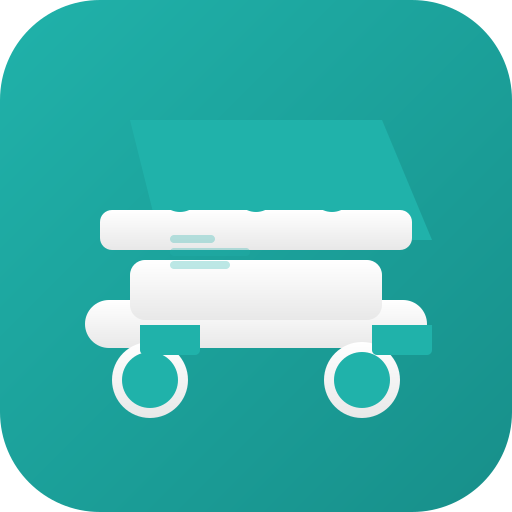
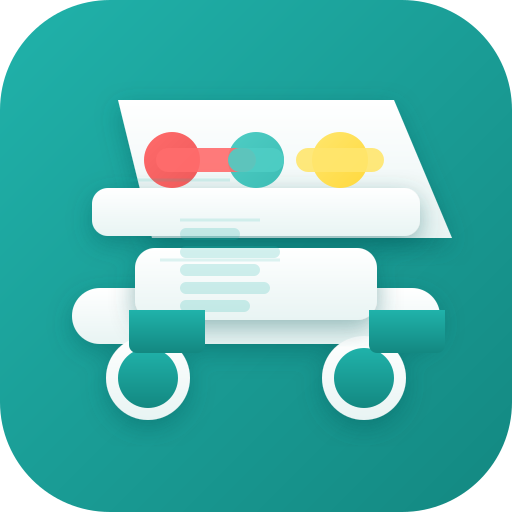
feat: redesign ícones PWA e OG image para preview
- Ícone PWA profissional com gradiente e itens coloridos
- OG image redesenhada com layout mais elegante
- URLs absolutas para og:image (1200x630 PNG)
- Meta tags twitter:image com width/height
- Ícone com fundo preenchido sem bordas brancas

diff --git a/index.html b/index.html
@@ -17,7 +17,8 @@
     <meta property="og:type" content="website" />
     <meta property="og:title" content="SuperLista - Lista de Compras" />
     <meta property="og:description" content="Sua lista de compras inteligente e prática" />
-    <meta property="og:image" content="/og-image.png" />
+    <meta property="og:image" content="https://superlista.app/og-image.png" />
+    <meta property="og:image:type" content="image/png" />
     <meta property="og:image:alt" content="SuperLista - Lista de Compras" />
     <meta property="og:image:width" content="1200" />
     <meta property="og:image:height" content="630" />
@@ -27,8 +28,10 @@
     <meta name="twitter:card" content="summary_large_image" />
     <meta name="twitter:title" content="SuperLista - Lista de Compras" />
     <meta name="twitter:description" content="Sua lista de compras inteligente e prática" />
-    <meta name="twitter:image" content="/og-image.png" />
+    <meta name="twitter:image" content="https://superlista.app/og-image.png" />
     <meta name="twitter:image:alt" content="SuperLista - Lista de Compras" />
+    <meta name="twitter:image:width" content="1200" />
+    <meta name="twitter:image:height" content="630" />
   </head>
   <body>
     <div id="root"></div>
